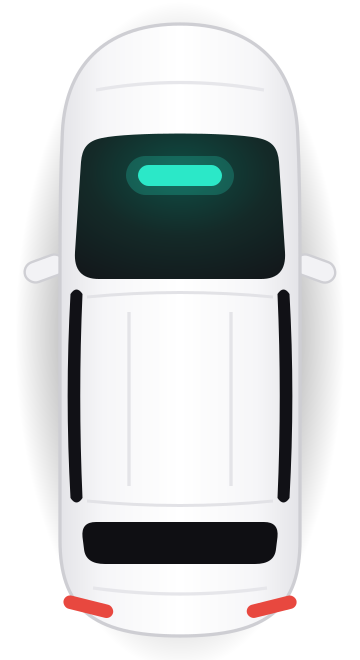
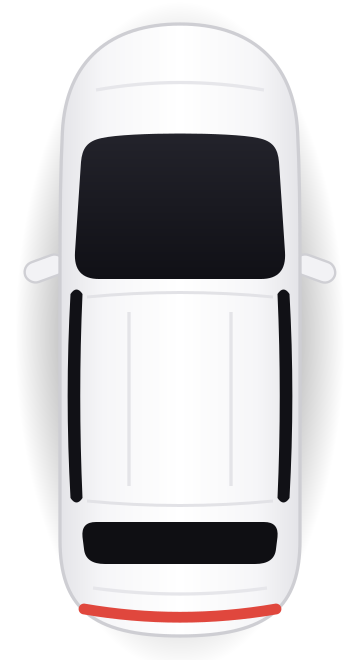
style(shared): drop glow bars, integrate tail lights into the body
Per design feedback: no teal/gold glow on the glass — plain dark
windshield. Tail lights are now a thin full-width blade that follows
the rear body curve (modern-EV look) instead of rotated red slivers
that floated off the corners.

https://claude.ai/code/session_01VLdP3AKYsm3EBkpMBX8mqb

Changed region(s): [[0.3056, 0.2121, 0.6722, 0.3636], [0.1833, 0.8788, 0.825, 0.9697]]

diff --git a/shared/assets/generate_car_markers.py b/shared/assets/generate_car_markers.py
@@ -1,13 +1,14 @@
 #!/usr/bin/env python3
 """Generate the top-down car marker PNGs used on the live maps.
 
-Three variants, one per vehicle class — Lyft-style top-down cars (smooth
-white body, very rounded hood, dark glass with a glowing brand accent bar,
-no wheel/grille detail), nose pointing up, transparent background:
+Three variants, one per vehicle class — clean modern-EV top view (smooth
+white body, very rounded hood, dark glass, full-width tail light blade
+flush with the body, no wheel/grille detail), nose pointing up,
+transparent background:
 
-  - sedan : white sedan                     -> car_marker_sedan.png
-  - suv   : white long-roof SUV             -> car_marker_suv.png
-  - lux   : black luxury sedan, gold glow   -> car_marker_lux.png
+  - sedan : white sedan             -> car_marker_sedan.png
+  - suv   : white long-roof SUV     -> car_marker_suv.png
+  - lux   : black luxury sedan      -> car_marker_lux.png
 
 Canvas is 120x220 for every variant so `CarMarker`'s `size` prop scales
 them identically; the SUV reads bigger via a wider body and a long flat
@@ -44,10 +45,6 @@ def _expand_hex8(svg: str) -> str:
 
 SVG_HEADER = """<svg xmlns='http://www.w3.org/2000/svg' width='120' height='220' viewBox='0 0 120 220'>"""
 
-# Spinr brand teal — plays the role of Lyft's magenta "glow" on the glass.
-GLOW = "#2BE8C8"
-GLOW_DIM = "#0E4D44"
-
 
 def _shadow_defs(prefix: str) -> str:
     """Soft radial drop shadow (cairosvg has no feGaussianBlur)."""
@@ -68,11 +65,10 @@ def _white_body_defs(prefix: str) -> str:
       <stop offset='82%' stop-color='#F6F6F8'/>
       <stop offset='100%' stop-color='#E4E4E8'/>
     </linearGradient>
-    <radialGradient id='{prefix}ws' cx='0.5' cy='0.28' r='0.95'>
-      <stop offset='0%' stop-color='{GLOW_DIM}'/>
-      <stop offset='45%' stop-color='#142A28'/>
-      <stop offset='100%' stop-color='#121217'/>
-    </radialGradient>"""
+    <linearGradient id='{prefix}ws' x1='0' y1='0' x2='0' y2='1'>
+      <stop offset='0%' stop-color='#23232B'/>
+      <stop offset='100%' stop-color='#101016'/>
+    </linearGradient>"""
 
 
 SEDAN_SVG = (
@@ -105,11 +101,7 @@ SEDAN_SVG = (
   <!-- Hood seam -->
   <path d='M 36 33 Q 60 28 84 33' fill='none' stroke='#E6E6EA' stroke-width='1.1'/>
 
-  <!-- Taillights: small slivers peeking at the rear corners -->
-  <rect x='27' y='201' width='15' height='4.5' rx='2.25' fill='#E8483F' transform='rotate(16 34.5 203)'/>
-  <rect x='78' y='201' width='15' height='4.5' rx='2.25' fill='#E8483F' transform='rotate(-16 85.5 203)'/>
-
-  <!-- Windshield: dark glass with brand glow -->
+  <!-- Windshield: dark glass -->
   <path d='M 38 52
            C 46 50 74 50 82 52
            C 87 53 88.6 55.5 89 60
@@ -120,13 +112,6 @@ SEDAN_SVG = (
            L 31 60
            C 31.4 55.5 33 53 38 52 Z'
         fill='url(#sws)'/>
-  <!-- Glow halo + bar (Lyft-amp style, Spinr teal) -->
-  <rect x='44' y='58' width='32' height='13' rx='6.5' fill='"""
-    + GLOW
-    + """' fill-opacity='0.22'/>
-  <rect x='48' y='61' width='24' height='7' rx='3.5' fill='"""
-    + GLOW
-    + """'/>
 
   <!-- Side window slivers -->
   <path d='M 28.5 103 Q 26.8 126 28.5 149 Q 30.5 152 32.5 149 Q 31.2 126 32.5 103 Q 30.5 100 28.5 103 Z' fill='#111116'/>
@@ -150,6 +135,9 @@ SEDAN_SVG = (
 
   <!-- Trunk seam -->
   <path d='M 36 192 Q 60 196 84 192' fill='none' stroke='#E6E6EA' stroke-width='1.1'/>
+
+  <!-- Full-width tail light blade (Tesla/Polestar style), flush with body -->
+  <path d='M 33 202 Q 60 207.5 87 202' fill='none' stroke='#E0473D' stroke-width='3.4' stroke-linecap='round'/>
 </svg>"""
 )
 
@@ -186,10 +174,6 @@ SUV_SVG = (
   <!-- Hood seam (short hood) -->
   <path d='M 32 30 Q 60 25 88 30' fill='none' stroke='#E6E6EA' stroke-width='1.1'/>
 
-  <!-- Taillights: slivers wrapping the rear corners -->
-  <rect x='21' y='200' width='17' height='4.5' rx='2.25' fill='#E8483F' transform='rotate(14 29.5 202)'/>
-  <rect x='82' y='200' width='17' height='4.5' rx='2.25' fill='#E8483F' transform='rotate(-14 90.5 202)'/>
-
   <!-- Windshield: upright, wide -->
   <path d='M 34 46
            C 43 44 77 44 86 46
@@ -201,12 +185,6 @@ SUV_SVG = (
            L 27 54
            C 27.4 49.5 29 47 34 46 Z'
         fill='url(#uws)'/>
-  <rect x='42' y='52' width='36' height='13' rx='6.5' fill='"""
-    + GLOW
-    + """' fill-opacity='0.22'/>
-  <rect x='46' y='55' width='28' height='7' rx='3.5' fill='"""
-    + GLOW
-    + """'/>
 
   <!-- Side window slivers: run the full long cabin -->
   <path d='M 23.5 98 Q 21.6 132 23.5 166 Q 25.5 169 27.5 166 Q 26 132 27.5 98 Q 25.5 95 23.5 98 Z' fill='#111116'/>
@@ -232,12 +210,15 @@ SUV_SVG = (
 
   <!-- Tailgate seam -->
   <path d='M 31 196 Q 60 200 89 196' fill='none' stroke='#E6E6EA' stroke-width='1.1'/>
+
+  <!-- Full-width tail light blade, flush with the tailgate -->
+  <path d='M 28 203 Q 60 208.5 92 203' fill='none' stroke='#E0473D' stroke-width='3.6' stroke-linecap='round'/>
 </svg>"""
 )
 
 
-# Lux: same Lyft shape language as the sedan, black body, warm gold glow,
-# light outline so it stays readable on dark map styles.
+# Lux: same body language as the sedan, black paint, light outline so it
+# stays readable on dark map styles.
 LUX_SVG = (
     SVG_HEADER
     + "<defs>"
@@ -250,11 +231,10 @@ LUX_SVG = (
       <stop offset='82%' stop-color='#26262C'/>
       <stop offset='100%' stop-color='#17171B'/>
     </linearGradient>
-    <radialGradient id='lws' cx='0.5' cy='0.28' r='0.95'>
-      <stop offset='0%' stop-color='#4A3A14'/>
-      <stop offset='45%' stop-color='#1E1A10'/>
-      <stop offset='100%' stop-color='#0C0C10'/>
-    </radialGradient>
+    <linearGradient id='lws' x1='0' y1='0' x2='0' y2='1'>
+      <stop offset='0%' stop-color='#15151B'/>
+      <stop offset='100%' stop-color='#0A0A0F'/>
+    </linearGradient>
   </defs>
 
   <!-- Soft ground shadow -->
@@ -279,11 +259,7 @@ LUX_SVG = (
   <!-- Hood seam -->
   <path d='M 36 33 Q 60 28 84 33' fill='none' stroke='#46464E' stroke-width='1.1'/>
 
-  <!-- Taillights -->
-  <rect x='27' y='201' width='15' height='4.5' rx='2.25' fill='#F0524A' transform='rotate(16 34.5 203)'/>
-  <rect x='78' y='201' width='15' height='4.5' rx='2.25' fill='#F0524A' transform='rotate(-16 85.5 203)'/>
-
-  <!-- Windshield: black glass with warm gold glow -->
+  <!-- Windshield: black glass -->
   <path d='M 38 52
            C 46 50 74 50 82 52
            C 87 53 88.6 55.5 89 60
@@ -294,8 +270,6 @@ LUX_SVG = (
            L 31 60
            C 31.4 55.5 33 53 38 52 Z'
         fill='url(#lws)'/>
-  <rect x='44' y='58' width='32' height='13' rx='6.5' fill='#F5C453' fill-opacity='0.25'/>
-  <rect x='48' y='61' width='24' height='7' rx='3.5' fill='#F5C453'/>
 
   <!-- Side window slivers -->
   <path d='M 28.5 103 Q 26.8 126 28.5 149 Q 30.5 152 32.5 149 Q 31.2 126 32.5 103 Q 30.5 100 28.5 103 Z' fill='#08080B'/>
@@ -317,9 +291,11 @@ LUX_SVG = (
            Q 32 155 37 155 Z'
         fill='#0A0A0E'/>
 
-  <!-- Trunk seam + chrome strip -->
+  <!-- Trunk seam -->
   <path d='M 36 192 Q 60 196 84 192' fill='none' stroke='#46464E' stroke-width='1.1'/>
-  <rect x='42' y='197' width='36' height='2.2' rx='1.1' fill='#C9CBD4'/>
+
+  <!-- Full-width tail light blade, flush with body -->
+  <path d='M 33 202 Q 60 207.5 87 202' fill='none' stroke='#F0524A' stroke-width='3.4' stroke-linecap='round'/>
 </svg>"""
 )
 
